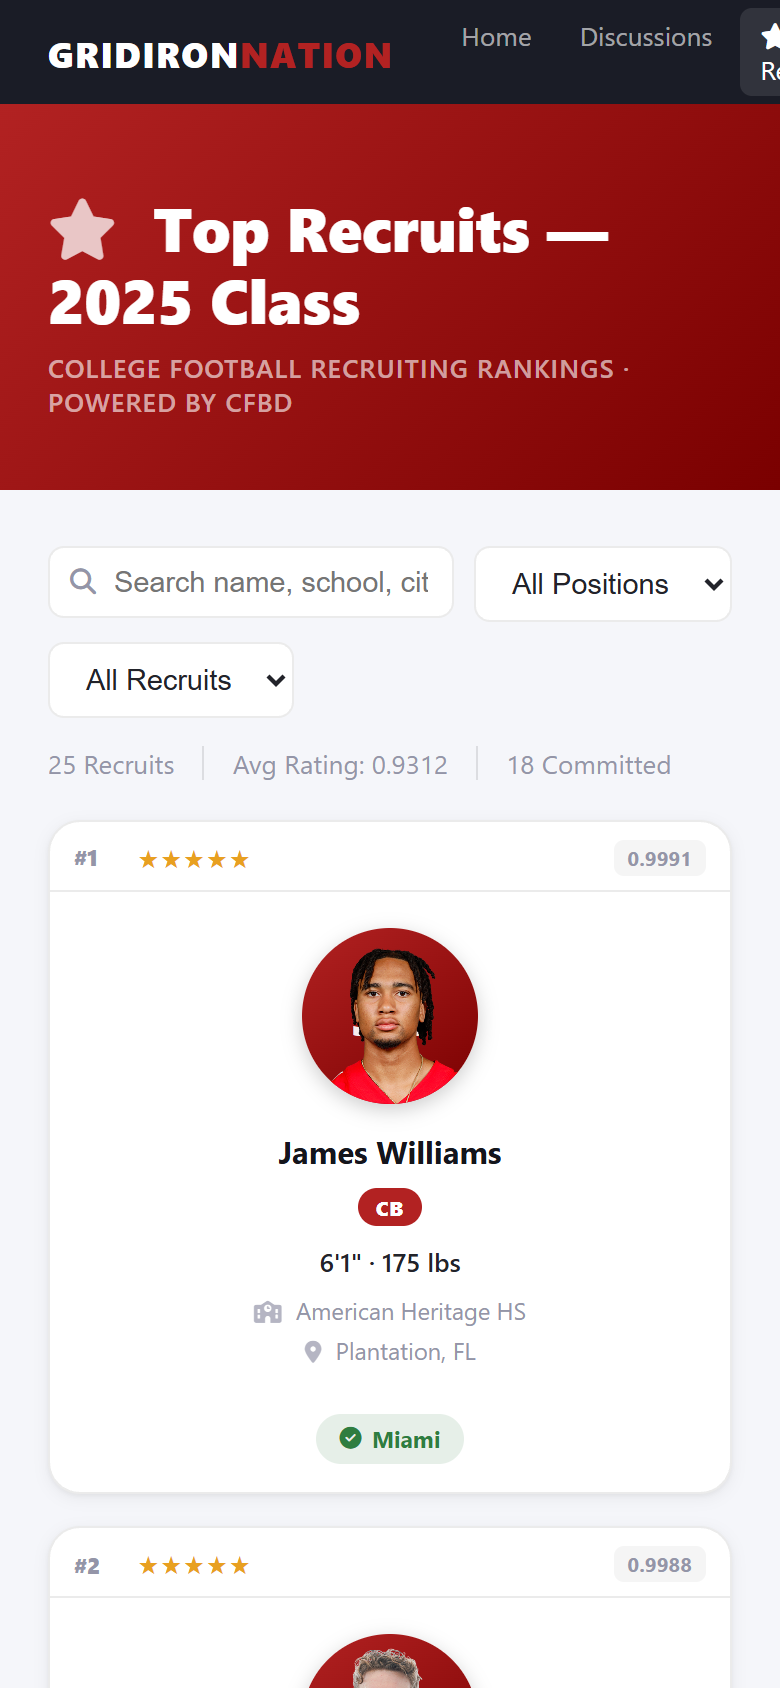
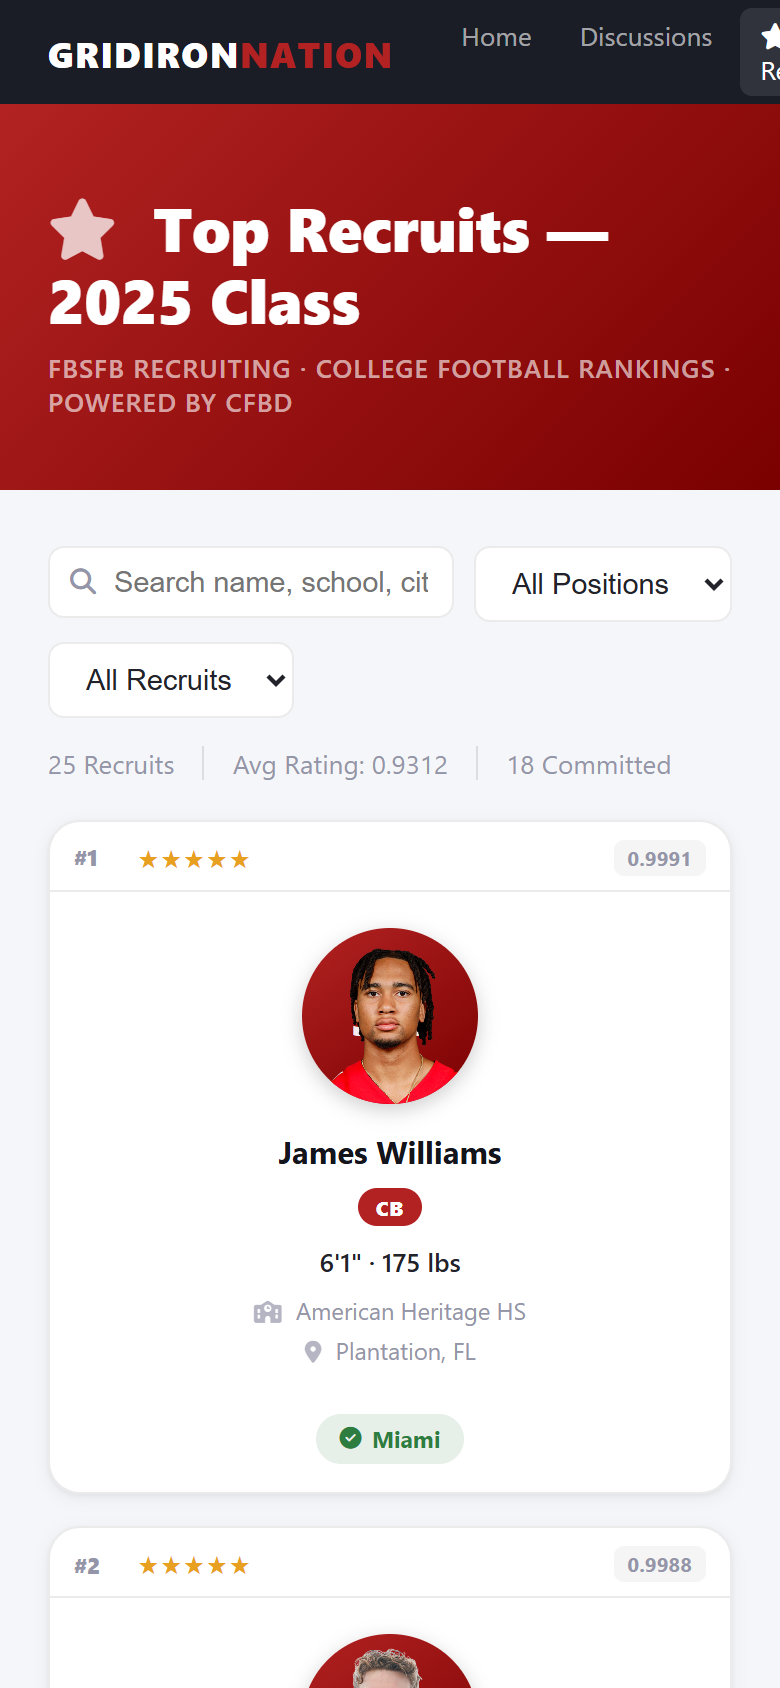
Rename GN Recruiting → FBSFB Recruiting
- composer.json title updated
- locale, LESS comments, JS error messages updated
- Hero subtitle updated to "FBSFB Recruiting · College Football Rankings"
- Screenshots retaken with new branding
- README updated throughout

Changed region(s): [[0.4, 0.2156, 0.8923, 0.2464], [0.0615, 0.2156, 0.3692, 0.2464]]

diff --git a/js/dist/forum.js b/js/dist/forum.js
@@ -1,2 +1,2 @@
-(()=>{var e={n:t=>{var i=t&&t.__esModule?()=>t.default:()=>t;return e.d(i,{a:i}),i},d:(t,i)=>{for(var r in i)e.o(i,r)&&!e.o(t,r)&&Object.defineProperty(t,r,{enumerable:!0,get:i[r]})},o:(e,t)=>Object.prototype.hasOwnProperty.call(e,t)};(()=>{"use strict";const t=flarum.reg.get("core","forum/app");var i=e.n(t);const r=flarum.reg.get("core","common/extend"),a=flarum.reg.get("core","forum/components/IndexPage");var n=e.n(a);const s=flarum.reg.get("core","common/components/LinkButton");var o=e.n(s);const l=flarum.reg.get("core","common/components/Page");var c=e.n(l);class h extends(c()){oninit(e){super.oninit(e),this.bodyClass="App--recruiting",this.recruits=[],this.year=null,this.title=i().forum.attribute("ernestdefoe-recruiting.widget_title")||"Top Recruits",this.loading=!0,this.error=null,this._timer=null,this.filterSearch="",this.filterPosition="",this.filterStatus="all",this.fetch()}oncreate(e){super.oncreate(e),this._timer=setInterval(()=>this.fetch(),18e5)}onremove(e){super.onremove(e),clearInterval(this._timer)}fetch(){this.loading=!0;const e=(i().forum.attribute("apiUrl")||"/api").replace(/\/$/,"");fetch("".concat(e,"/cfbd-recruits"),{credentials:"same-origin"}).then(e=>e.json()).then(e=>{this.recruits=e.data||[],this.year=e.year||null,this.error=e.error||null,e.title&&(this.title=e.title),this.loading=!1,m.redraw()}).catch(()=>{this.loading=!1,this.error="fetch_failed",m.redraw()})}positions(){const e=new Set;return this.recruits.map(e=>e.position).filter(t=>t&&!e.has(t)&&e.add(t))}filtered(){let e=this.recruits;if(this.filterPosition&&(e=e.filter(e=>e.position===this.filterPosition)),"all"!==this.filterStatus&&(e=e.filter(e=>e.status===this.filterStatus)),this.filterSearch.trim()){const t=this.filterSearch.trim().toLowerCase();e=e.filter(e=>(e.name||"").toLowerCase().includes(t)||(e.highSchool||"").toLowerCase().includes(t)||(e.hometown||"").toLowerCase().includes(t)||(e.school||"").toLowerCase().includes(t))}return e}stars(e){if(!e||e<1)return null;const t=Math.min(5,e),i=Math.max(0,5-t);return"★".repeat(t)+"☆".repeat(i)}initials(e){if(!e)return"?";const t=e.trim().split(/\s+/);return t.length>=2?(t[0][0]+t[t.length-1][0]).toUpperCase():e.slice(0,2).toUpperCase()}view(){return m(".GNPage",[this.viewHero(),m(".GNPage-body",this.loading?this.viewLoading():this.error?this.viewError():this.viewContent())])}viewHero(){const e=this.year?" — ".concat(this.year," Class"):"";return m(".GNPage-hero",[m(".GNPage-hero-inner",[m("h1.GNPage-title",[m("i.fas.fa-star")," ".concat(this.title).concat(e)]),m("p.GNPage-subtitle","College Football Recruiting Rankings · Powered by CFBD")])])}viewLoading(){return m(".GNPage-state",[m("i.fas.fa-spinner.fa-spin"),m("p","Loading recruits…")])}viewError(){return"api_key_missing"===this.error?m(".GNPage-state.GNPage-state--warn",[m("i.fas.fa-key"),m("p","Set your CFBD API key in Admin → Extensions → GN Recruiting.")]):"invalid_api_key"===this.error?m(".GNPage-state.GNPage-state--warn",[m("i.fas.fa-exclamation-triangle"),m("p","Invalid API key — check Admin → Extensions → GN Recruiting.")]):m(".GNPage-state.GNPage-state--warn",[m("i.fas.fa-exclamation-circle"),m("p","Recruiting data is temporarily unavailable. Please try again later.")])}viewContent(){const e=this.filtered(),t=this.recruits.filter(e=>"committed"===e.status).length,i=this.recruits.length?(this.recruits.reduce((e,t)=>e+(t.rating||0),0)/this.recruits.length).toFixed(4):null;return[this.viewFilters(),m(".GNPage-stats",[m("span","".concat(e.length," Recruit").concat(1!==e.length?"s":"")),i?m("span","Avg Rating: ".concat(i)):null,m("span","".concat(t," Committed"))]),0===e.length?m(".GNPage-state",[m("i.fas.fa-search"),m("p","No recruits match your filters.")]):m(".GNPage-grid",e.map(e=>this.viewCard(e)))]}viewFilters(){const e=this.positions();return m(".GNPage-filters",[m("div.GNPage-search-wrap",[m("i.fas.fa-search.GNPage-search-icon"),m("input.GNPage-search",{type:"text",placeholder:"Search name, school, city…",value:this.filterSearch,oninput:e=>{this.filterSearch=e.target.value,m.redraw()}})]),m("select.GNPage-select",{value:this.filterPosition,onchange:e=>{this.filterPosition=e.target.value,m.redraw()}},[m("option",{value:""},"All Positions"),...e.map(e=>m("option",{value:e},e))]),m("select.GNPage-select",{value:this.filterStatus,onchange:e=>{this.filterStatus=e.target.value,m.redraw()}},[m("option",{value:"all"},"All Recruits"),m("option",{value:"committed"},"Committed"),m("option",{value:"undecided"},"Undecided")])])}viewCard(e){const t=this.stars(e.stars),i=this.initials(e.name),r=[e.height,e.weight].filter(Boolean).join(" · ");return m(".GNR-card",{key:e.id||e.name},[m(".GNR-top",[e.ranking?m(".GNR-rank","#".concat(e.ranking)):m(".GNR-rank.GNR-rank--none","—"),t?m(".GNR-stars",t):null,e.rating?m(".GNR-ratingBadge",e.rating.toFixed(4)):null]),m(".GNR-photoWrap",[m(".GNR-initials",i),e.athleteId?m("img.GNR-photo",{src:"https://a.espncdn.com/i/headshots/college-football/players/full/".concat(e.athleteId,".png"),alt:e.name,loading:"lazy",onerror:function(){this.style.display="none"}}):null]),m(".GNR-body",[m(".GNR-name",e.name),e.position?m("span.GNR-pos",e.position):null,r?m(".GNR-physicals",r):null,e.highSchool?m(".GNR-detail",[m("i.fas.fa-school")," ",e.highSchool]):null,e.hometown?m(".GNR-detail",[m("i.fas.fa-map-marker-alt")," ",e.hometown,e.country?m("span.GNR-country"," · ".concat(e.country)):null]):null,e.recruitType&&"HighSchool"!==e.recruitType?m("span.GNR-typeBadge",e.recruitType.replace(/([A-Z])/g," $1").trim()):null]),m(".GNR-footer",["committed"===e.status?m("span.GNR-commit.GNR-commit--committed",[m("i.fas.fa-check-circle")," ".concat(e.school||"Committed")]):m("span.GNR-commit.GNR-commit--undecided",[m("i.far.fa-circle")," Undecided"])])])}}flarum.reg.add("ernestdefoe-recruiting","forum/pages/RecruitingPage",h),i().initializers.add("ernestdefoe-recruiting",()=>{i().routes.recruiting={path:"/recruiting",component:h},(0,r.extend)(n().prototype,"navItems",function(e){e.add("recruiting",m(o(),{href:i().route("recruiting"),icon:"fas fa-star"},i().translator.trans("ernestdefoe-recruiting.forum.nav.label")),-10)})})})(),module.exports={}})();
+(()=>{var e={n:t=>{var i=t&&t.__esModule?()=>t.default:()=>t;return e.d(i,{a:i}),i},d:(t,i)=>{for(var r in i)e.o(i,r)&&!e.o(t,r)&&Object.defineProperty(t,r,{enumerable:!0,get:i[r]})},o:(e,t)=>Object.prototype.hasOwnProperty.call(e,t)};(()=>{"use strict";const t=flarum.reg.get("core","forum/app");var i=e.n(t);const r=flarum.reg.get("core","common/extend"),a=flarum.reg.get("core","forum/components/IndexPage");var n=e.n(a);const s=flarum.reg.get("core","common/components/LinkButton");var o=e.n(s);const l=flarum.reg.get("core","common/components/Page");var c=e.n(l);class h extends(c()){oninit(e){super.oninit(e),this.bodyClass="App--recruiting",this.recruits=[],this.year=null,this.title=i().forum.attribute("ernestdefoe-recruiting.widget_title")||"Top Recruits",this.loading=!0,this.error=null,this._timer=null,this.filterSearch="",this.filterPosition="",this.filterStatus="all",this.fetch()}oncreate(e){super.oncreate(e),this._timer=setInterval(()=>this.fetch(),18e5)}onremove(e){super.onremove(e),clearInterval(this._timer)}fetch(){this.loading=!0;const e=(i().forum.attribute("apiUrl")||"/api").replace(/\/$/,"");fetch("".concat(e,"/cfbd-recruits"),{credentials:"same-origin"}).then(e=>e.json()).then(e=>{this.recruits=e.data||[],this.year=e.year||null,this.error=e.error||null,e.title&&(this.title=e.title),this.loading=!1,m.redraw()}).catch(()=>{this.loading=!1,this.error="fetch_failed",m.redraw()})}positions(){const e=new Set;return this.recruits.map(e=>e.position).filter(t=>t&&!e.has(t)&&e.add(t))}filtered(){let e=this.recruits;if(this.filterPosition&&(e=e.filter(e=>e.position===this.filterPosition)),"all"!==this.filterStatus&&(e=e.filter(e=>e.status===this.filterStatus)),this.filterSearch.trim()){const t=this.filterSearch.trim().toLowerCase();e=e.filter(e=>(e.name||"").toLowerCase().includes(t)||(e.highSchool||"").toLowerCase().includes(t)||(e.hometown||"").toLowerCase().includes(t)||(e.school||"").toLowerCase().includes(t))}return e}stars(e){if(!e||e<1)return null;const t=Math.min(5,e),i=Math.max(0,5-t);return"★".repeat(t)+"☆".repeat(i)}initials(e){if(!e)return"?";const t=e.trim().split(/\s+/);return t.length>=2?(t[0][0]+t[t.length-1][0]).toUpperCase():e.slice(0,2).toUpperCase()}view(){return m(".GNPage",[this.viewHero(),m(".GNPage-body",this.loading?this.viewLoading():this.error?this.viewError():this.viewContent())])}viewHero(){const e=this.year?" — ".concat(this.year," Class"):"";return m(".GNPage-hero",[m(".GNPage-hero-inner",[m("h1.GNPage-title",[m("i.fas.fa-star")," ".concat(this.title).concat(e)]),m("p.GNPage-subtitle","FBSFB Recruiting · College Football Rankings · Powered by CFBD")])])}viewLoading(){return m(".GNPage-state",[m("i.fas.fa-spinner.fa-spin"),m("p","Loading recruits…")])}viewError(){return"api_key_missing"===this.error?m(".GNPage-state.GNPage-state--warn",[m("i.fas.fa-key"),m("p","Set your CFBD API key in Admin → Extensions → FBSFB Recruiting.")]):"invalid_api_key"===this.error?m(".GNPage-state.GNPage-state--warn",[m("i.fas.fa-exclamation-triangle"),m("p","Invalid API key — check Admin → Extensions → FBSFB Recruiting.")]):m(".GNPage-state.GNPage-state--warn",[m("i.fas.fa-exclamation-circle"),m("p","Recruiting data is temporarily unavailable. Please try again later.")])}viewContent(){const e=this.filtered(),t=this.recruits.filter(e=>"committed"===e.status).length,i=this.recruits.length?(this.recruits.reduce((e,t)=>e+(t.rating||0),0)/this.recruits.length).toFixed(4):null;return[this.viewFilters(),m(".GNPage-stats",[m("span","".concat(e.length," Recruit").concat(1!==e.length?"s":"")),i?m("span","Avg Rating: ".concat(i)):null,m("span","".concat(t," Committed"))]),0===e.length?m(".GNPage-state",[m("i.fas.fa-search"),m("p","No recruits match your filters.")]):m(".GNPage-grid",e.map(e=>this.viewCard(e)))]}viewFilters(){const e=this.positions();return m(".GNPage-filters",[m("div.GNPage-search-wrap",[m("i.fas.fa-search.GNPage-search-icon"),m("input.GNPage-search",{type:"text",placeholder:"Search name, school, city…",value:this.filterSearch,oninput:e=>{this.filterSearch=e.target.value,m.redraw()}})]),m("select.GNPage-select",{value:this.filterPosition,onchange:e=>{this.filterPosition=e.target.value,m.redraw()}},[m("option",{value:""},"All Positions"),...e.map(e=>m("option",{value:e},e))]),m("select.GNPage-select",{value:this.filterStatus,onchange:e=>{this.filterStatus=e.target.value,m.redraw()}},[m("option",{value:"all"},"All Recruits"),m("option",{value:"committed"},"Committed"),m("option",{value:"undecided"},"Undecided")])])}viewCard(e){const t=this.stars(e.stars),i=this.initials(e.name),r=[e.height,e.weight].filter(Boolean).join(" · ");return m(".GNR-card",{key:e.id||e.name},[m(".GNR-top",[e.ranking?m(".GNR-rank","#".concat(e.ranking)):m(".GNR-rank.GNR-rank--none","—"),t?m(".GNR-stars",t):null,e.rating?m(".GNR-ratingBadge",e.rating.toFixed(4)):null]),m(".GNR-photoWrap",[m(".GNR-initials",i),e.athleteId?m("img.GNR-photo",{src:"https://a.espncdn.com/i/headshots/college-football/players/full/".concat(e.athleteId,".png"),alt:e.name,loading:"lazy",onerror:function(){this.style.display="none"}}):null]),m(".GNR-body",[m(".GNR-name",e.name),e.position?m("span.GNR-pos",e.position):null,r?m(".GNR-physicals",r):null,e.highSchool?m(".GNR-detail",[m("i.fas.fa-school")," ",e.highSchool]):null,e.hometown?m(".GNR-detail",[m("i.fas.fa-map-marker-alt")," ",e.hometown,e.country?m("span.GNR-country"," · ".concat(e.country)):null]):null,e.recruitType&&"HighSchool"!==e.recruitType?m("span.GNR-typeBadge",e.recruitType.replace(/([A-Z])/g," $1").trim()):null]),m(".GNR-footer",["committed"===e.status?m("span.GNR-commit.GNR-commit--committed",[m("i.fas.fa-check-circle")," ".concat(e.school||"Committed")]):m("span.GNR-commit.GNR-commit--undecided",[m("i.far.fa-circle")," Undecided"])])])}}flarum.reg.add("ernestdefoe-recruiting","forum/pages/RecruitingPage",h),i().initializers.add("ernestdefoe-recruiting",()=>{i().routes.recruiting={path:"/recruiting",component:h},(0,r.extend)(n().prototype,"navItems",function(e){e.add("recruiting",m(o(),{href:i().route("recruiting"),icon:"fas fa-star"},i().translator.trans("ernestdefoe-recruiting.forum.nav.label")),-10)})})})(),module.exports={}})();
 //# sourceMappingURL=forum.js.map

diff --git a/js/src/forum/pages/RecruitingPage.js b/js/src/forum/pages/RecruitingPage.js
@@ -140,7 +140,7 @@ export default class RecruitingPage extends Page {
     return m('.GNPage-hero', [
       m('.GNPage-hero-inner', [
         m('h1.GNPage-title', [m('i.fas.fa-star'), ` ${this.title}${yearLabel}`]),
-        m('p.GNPage-subtitle', 'College Football Recruiting Rankings · Powered by CFBD'),
+        m('p.GNPage-subtitle', 'FBSFB Recruiting · College Football Rankings · Powered by CFBD'),
       ]),
     ]);
   }
@@ -156,13 +156,13 @@ export default class RecruitingPage extends Page {
     if (this.error === 'api_key_missing') {
       return m('.GNPage-state.GNPage-state--warn', [
         m('i.fas.fa-key'),
-        m('p', 'Set your CFBD API key in Admin → Extensions → GN Recruiting.'),
+        m('p', 'Set your CFBD API key in Admin → Extensions → FBSFB Recruiting.'),
       ]);
     }
     if (this.error === 'invalid_api_key') {
       return m('.GNPage-state.GNPage-state--warn', [
         m('i.fas.fa-exclamation-triangle'),
-        m('p', 'Invalid API key — check Admin → Extensions → GN Recruiting.'),
+        m('p', 'Invalid API key — check Admin → Extensions → FBSFB Recruiting.'),
       ]);
     }
     return m('.GNPage-state.GNPage-state--warn', [

diff --git a/preview/index.html b/preview/index.html
@@ -3,7 +3,7 @@
 <head>
 <meta charset="UTF-8">
 <meta name="viewport" content="width=device-width, initial-scale=1.0">
-<title>GN Recruiting — Preview</title>
+<title>FBSFB Recruiting — Preview</title>
 <link rel="stylesheet" href="https://cdnjs.cloudflare.com/ajax/libs/font-awesome/6.5.0/css/all.min.css">
 <style>
   *, *::before, *::after { box-sizing: border-box; margin: 0; padding: 0; }
@@ -306,7 +306,7 @@
 <div class="GNPage-hero">
   <div class="GNPage-hero-inner">
     <h1 class="GNPage-title"><i class="fas fa-star"></i> Top Recruits — 2025 Class</h1>
-    <p class="GNPage-subtitle">College Football Recruiting Rankings · Powered by CFBD</p>
+    <p class="GNPage-subtitle">FBSFB Recruiting · College Football Rankings · Powered by CFBD</p>
   </div>
 </div>
 

diff --git a/js/src/forum/components/RecruitingWidget.js b/js/src/forum/components/RecruitingWidget.js
@@ -86,7 +86,7 @@ export default class RecruitingWidget extends Component {
     if (this.error === 'api_key_missing') {
       return m('.GN-widget-empty', [
         m('i.fas.fa-key', { style: 'margin-right:6px' }),
-        'Set your CFBD API key in Admin → Extensions → GN Recruiting.',
+        'Set your CFBD API key in Admin → Extensions → FBSFB Recruiting.',
       ]);
     }
 

diff --git a/less/forum.less b/less/forum.less
@@ -1,5 +1,5 @@
 // ============================================================
-// GN Recruiting — Forum Styles
+// FBSFB Recruiting — Forum Styles
 // Full /recruiting page + responsive player card grid.
 // ============================================================
 

diff --git a/less/admin.less b/less/admin.less
@@ -1,3 +1,3 @@
-// GN Recruiting — Admin Styles
+// FBSFB Recruiting — Admin Styles
 // Settings fields are auto-generated by Flarum's ExtensionPage.
 // No custom admin styles required at this time.

diff --git a/README.md b/README.md
@@ -1,4 +1,4 @@
-# GN Recruiting
+# FBSFB Recruiting
 
 A Flarum 2 extension that pulls live college football recruiting rankings from the [College Football Data API](https://collegefootballdata.com/) and displays them on a dedicated `/recruiting` page inside your Flarum forum.
 
@@ -44,7 +44,7 @@ Then enable the extension in **Admin → Extensions**.
 
 ## Configuration
 
-All settings are found in **Admin → Extensions → GN Recruiting**.
+All settings are found in **Admin → Extensions → FBSFB Recruiting**.
 
 | Setting | Description | Default |
 |---|---|---|
